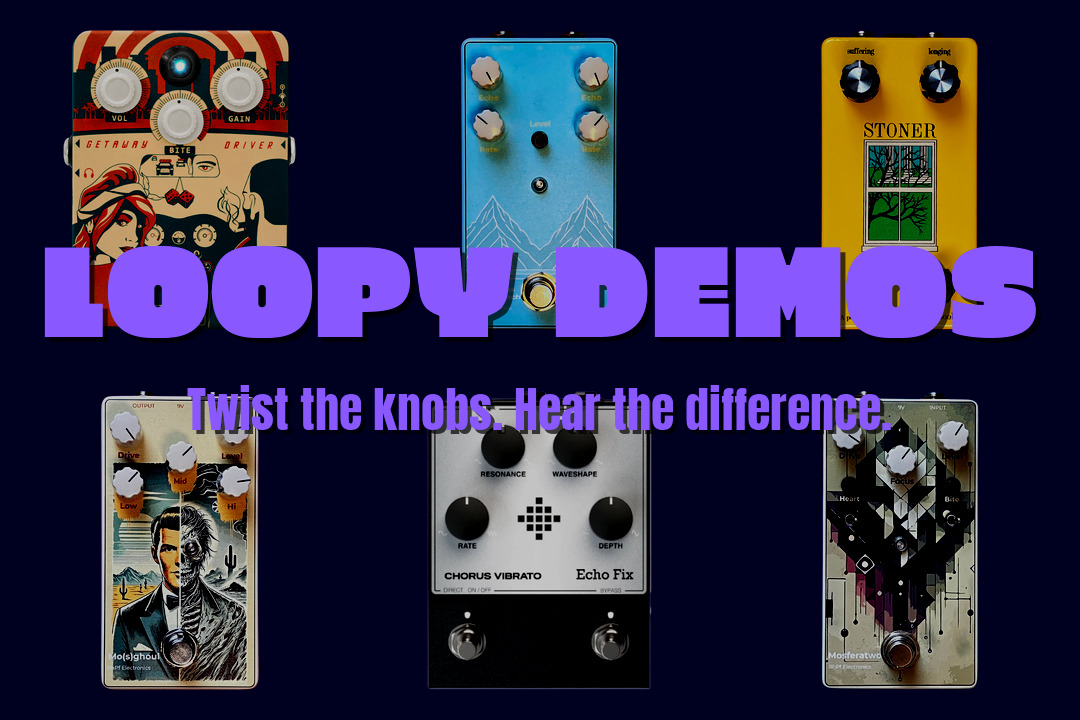
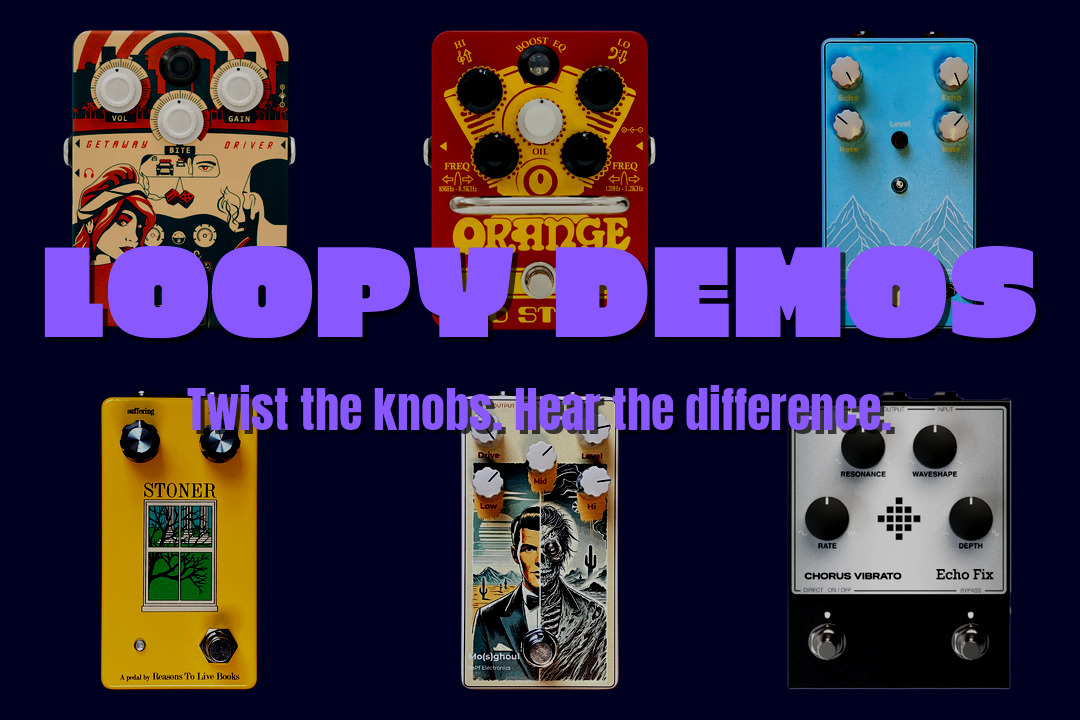
add two stroke files

diff --git a/src/content/demos/orange-two-stroke.md b/src/content/demos/orange-two-stroke.md
@@ -1,0 +1,26 @@
+---
+builder: Orange
+model: Two Stroke
+slug: orange-two-stroke
+type: demo
+isSponsored: true
+date: 2025-07-03
+tags:
+  - eq
+  - equalizer
+  - parametric eq
+  - boost
+externalLinks:
+  thomann: orange_two_stroke_boost_eq
+  builderLink: https://orangeamps.com/products/fx-pedals/two-stroke/
+  sweetwater: https://sweetwater.sjv.io/QjED2x
+---
+
+Write some copy about the Two Stroke by Orange.
+
+### Signal Chain
+
+- Fidelity Guitars Stellarosa Lite II with Lollar Firebird pickups (bridge pickup)
+- Two Stroke
+- [Mixwave Benson Chimera Plugin*](https://sweetwater.sjv.io/B0N2PL)
+- A bit of room-like reverb from the [Valhalla Vintage Verb plugin](https://valhalladsp.com/shop/reverb/valhalla-vintage-verb/)
